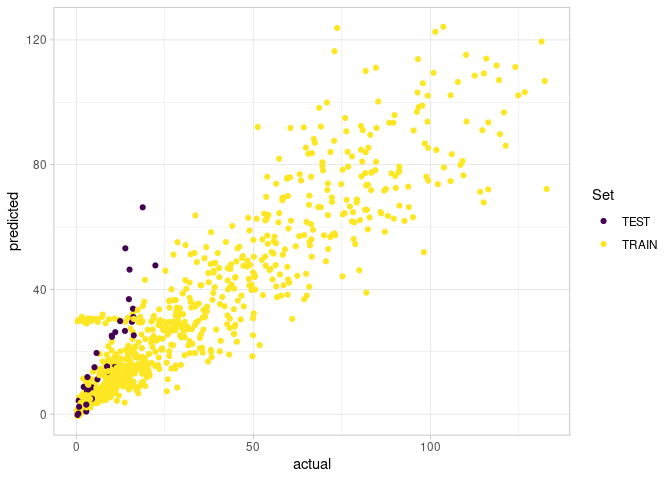
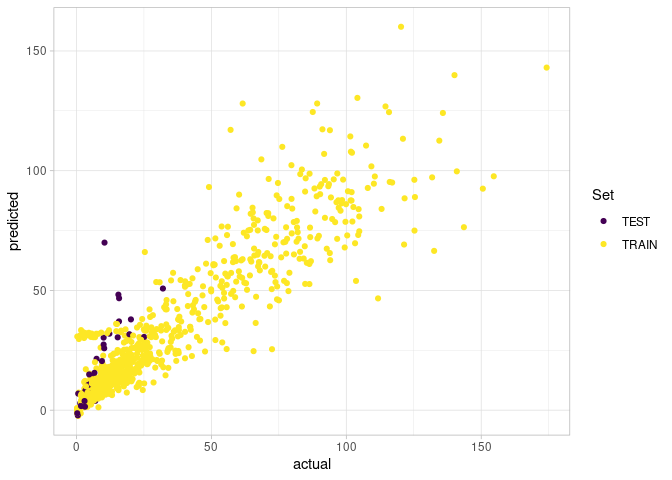
udpate doc

diff --git a/README.md b/README.md
@@ -139,7 +139,7 @@ bounds_voronoi
 #> →  Surface col.  : area
 #> →  Discretized   : 
 #>    ٭ Points — [40 features, 20 variables]
-#>    ٭ Patches — [38 features, 4 variables]
+#>    ٭ Patches — [35 features, 4 variables]
 ```
 
 The other available method is `triangulate_delaunay` for delaunay
@@ -148,7 +148,7 @@ triangulation. Here the `a` argument is used to set the size of the mesh
 
 ``` r
 bounds_delaunay <- bounds %>% 
-  spm_discretize(method = "triangulate_delaunay", a = 5)
+  spm_discretize(method = "triangulate_delaunay", a = 1, q = 30)
 #> ℹ  Discretizing using method triangulate_delaunay
 ```
 
@@ -171,30 +171,30 @@ spm_plot(bounds_delaunay)
 
 ``` r
 spm_patches(bounds_voronoi)
-#> Simple feature collection with 38 features and 3 fields
+#> Simple feature collection with 35 features and 3 fields
 #> Geometry type: GEOMETRY
 #> Dimension:     XY
-#> Bounding box:  xmin: -64.5 ymin: 46.00004 xmax: -46.6269 ymax: 61
+#> Bounding box:  xmin: -64.18658 ymin: 46.00004 xmax: -46.6269 ymax: 60.84471
 #> Geodetic CRS:  WGS 84
-#> # A tibble: 38 x 4
+#> # A tibble: 35 x 4
 #>    sfa   patch_id                                              geometry     area
-#>  * <chr> <fct>                                            <POLYGON [°]>   [km^2]
-#>  1 4     P1       ((-64.42169 60.27125, -64.42 60.27206, -64.41666 60.… 20367.3…
-#>  2 4     P2       ((-59.95566 58.64882, -60.25261 57.73692, -59.67678 …  1718.5…
-#>  3 4     P3       ((-61.89804 57.6918, -61.34602 58.43681, -61.36857 5…  3882.6…
-#>  4 4     P4       ((-60.50931 57.66667, -60.87958 58.41518, -61.34602 …  4684.4…
-#>  5 4     P5       ((-61.34602 58.43681, -60.87958 58.41518, -60.68359 …  2687.3…
-#>  6 4     P6       ((-63 60.62184, -61.66155 59.11637, -60.6936 58.9027… 14504.2…
-#>  7 4     P7       ((-60.26194 59.52858, -60.73068 59.34113, -60.6936 5…  2449.3…
-#>  8 4     P8       ((-59.91649 58.83888, -60.68359 58.8793, -60.87958 5…  6258.8…
-#>  9 4     P9       ((-61.96379 61, -60.73068 59.34113, -60.26194 59.528…  5308.1…
-#> 10 5     P10      ((-59.55703 55.21506, -59.53354 57.66667, -59.56667 … 27939.6…
-#> # … with 28 more rows
+#>  * <chr> <fct>                                           <GEOMETRY [°]>   [km^2]
+#>  1 4     P1       POLYGON ((-61.64897 58.21121, -61.35715 58.43733, -6… 17683.6…
+#>  2 4     P2       POLYGON ((-62.41225 60.84022, -61.35715 58.43733, -6… 11712.2…
+#>  3 4     P3       MULTIPOLYGON (((-60.72194 57.76154, -60.76641 57.922…  2367.4…
+#>  4 4     P4       POLYGON ((-60.26783 58.71877, -60.74766 58.86986, -6…  2471.2…
+#>  5 4     P5       POLYGON ((-59.91358 58.83089, -60.06338 58.74244, -6…  6723.9…
+#>  6 4     P6       POLYGON ((-60.11889 57.69684, -60.08143 57.70026, -6…  4924.0…
+#>  7 4     P7       MULTIPOLYGON (((-60.78516 60.03038, -60.06338 58.742…  1693.0…
+#>  8 5     P8       POLYGON ((-59.46605 55.79975, -58.92503 57.15717, -5… 15614.8…
+#>  9 5     P9       POLYGON ((-55.51969 53.75097, -55.79222 54.17142, -5…  6519.4…
+#> 10 5     P10      POLYGON ((-57.06788 54.76817, -56.79468 55.60955, -5… 23662.2…
+#> # … with 25 more rows
 spm_points(bounds_voronoi)
 #> Simple feature collection with 40 features and 19 fields
 #> Geometry type: POINT
 #> Dimension:     XY
-#> Bounding box:  xmin: -61.77175 ymin: 46.16256 xmax: -48.20016 ymax: 59.70288
+#> Bounding box:  xmin: -61.75483 ymin: 46.46915 xmax: -48.20016 ymax: 59.2464
 #> Geodetic CRS:  WGS 84
 #> # A tibble: 40 x 20
 #> # Groups:   sfa [4]
@@ -202,12 +202,12 @@ spm_points(bounds_voronoi)
 #>  * <dbl>  <dbl> <dbl> <chr>    <chr>           <dbl> <fct>      <dbl>   <dbl>
 #>  1  1995     39    23 2J       Fall           0.0250 1995           5   -51.9
 #>  2  1996     39    37 2G       Fall           0.0250 1996           5   -61.8
-#>  3  2011     39    95 2J       Fall           0.0250 2011           5   -49.1
-#>  4  2011     39    97 2J       Fall           0.0187 2011           5   -53.7
+#>  3  2011     39    94 2H       Fall           0.0250 2011           5   -51.8
+#>  4  2011     39    97 2J       Fall           0.0187 2011           5   -51.2
 #>  5  2011     39    98 3K       Fall           0.0281 2011           5   -61.2
-#>  6  2006     48   101 2G       Summer         0.0187 2006           5   -57.1
+#>  6  2011     39    98 3K       Fall           0.0312 2011           5   -57.2
 #>  7  2009     48   104 2G       Summer         0.0156 2009           5   -61.3
-#>  8  2012     39   107 2H       Fall           0.0187 2012           5   -56.3
+#>  8  2010     48   105 2G       Summer         0.0405 2010           5   -55.9
 #>  9  2012     39   109 3K       Fall           0.0218 2012           5   -50.0
 #> 10  2014     63   109 2G       Summer         0.0281 2014           5   -55.4
 #> # … with 30 more rows, and 11 more variables: lat_dec <dbl>, depth <dbl>,
@@ -236,7 +236,7 @@ biomass_smooth <- biomass_dataset %>%
 biomass_smooth
 #> 
 #> ‒‒ SSPM Dataset: borealis ‒‒
-#> →  Data (MAPPED)     : [1025 observations, 21 variables]
+#> →  Data (MAPPED)     : [969 observations, 21 variables]
 #> →  Data unique ID    : uniqueID
 #> →  Time col.         : year_f
 #> →  Coordinates cols. : lon_dec, lat_dec
@@ -244,7 +244,7 @@ biomass_smooth
 #>       – weight_per_km2 ~ sfa + smooth_time(k = 3) + smooth_space()
 #>       – temp_at_bottom ~ smooth_time(k = 2) + smooth_space()
 #> →  Boundaries        : [4 observations, 3 variables]
-#> →  Smoothed Data     : [912 observations, 8 variables]
+#> →  Smoothed Data     : [840 observations, 8 variables]
 #>    ٭ smoothed vars: temp_at_bottom_smooth — weight_per_km2_smooth
 ```
 
@@ -269,14 +269,14 @@ predator_smooth <- predator_dataset %>%
 predator_smooth
 #> 
 #> ‒‒ SSPM Dataset: all_predators ‒‒
-#> →  Data (MAPPED)     : [1964 observations, 18 variables]
+#> →  Data (MAPPED)     : [1874 observations, 18 variables]
 #> →  Data unique ID    : uniqueID
 #> →  Time col.         : year
 #> →  Coordinates cols. : lon_dec, lat_dec
 #> →  Formulas          : 
 #>       – weight_per_km2 ~ smooth_time(k = 3) + smooth_space()
 #> →  Boundaries        : [4 observations, 3 variables]
-#> →  Smoothed Data     : [912 observations, 7 variables]
+#> →  Smoothed Data     : [840 observations, 7 variables]
 #>    ٭ smoothed vars: weight_per_km2_smooth
 ```
 
@@ -314,7 +314,7 @@ biomass_smooth_w_catch <-
 biomass_smooth_w_catch
 #> 
 #> ‒‒ SSPM Dataset: borealis ‒‒
-#> →  Data (MAPPED)     : [1025 observations, 21 variables]
+#> →  Data (MAPPED)     : [969 observations, 21 variables]
 #> →  Data unique ID    : uniqueID
 #> →  Time col.         : year_f
 #> →  Coordinates cols. : lon_dec, lat_dec
@@ -322,7 +322,7 @@ biomass_smooth_w_catch
 #>       – weight_per_km2 ~ sfa + smooth_time(k = 3) + smooth_space()
 #>       – temp_at_bottom ~ smooth_time(k = 2) + smooth_space()
 #> →  Boundaries        : [4 observations, 3 variables]
-#> →  Smoothed Data     : [912 observations, 12 variables]
+#> →  Smoothed Data     : [840 observations, 12 variables]
 #>    ٭ smoothed vars: temp_at_bottom_smooth — weight_per_km2_smooth
 #>    ٭ vars with catch: weight_per_km2_smooth_borealis_with_catch — weight_per_km2_smooth_borealis_with_catch_change
 ```
@@ -339,7 +339,7 @@ sspm_model <- sspm(biomass = biomass_smooth_w_catch,
 sspm_model
 #> 
 #> ‒‒ SSPM Model (2 datasets) ‒‒
-#> →  Smoothed Data     : [912 observations, 13 variables]
+#> →  Smoothed Data     : [840 observations, 13 variables]
 #>    ٭ smoothed vars: temp_at_bottom_smooth — weight_per_km2_smooth_all_predators — weight_per_km2_smooth_borealis
 #>    ٭ vars with catch: weight_per_km2_smooth_borealis_with_catch — weight_per_km2_smooth_borealis_with_catch_change
 ```
@@ -354,7 +354,7 @@ sspm_model <- sspm_model %>%
 sspm_model
 #> 
 #> ‒‒ SSPM Model (2 datasets) ‒‒
-#> →  Smoothed Data     : [912 observations, 14 variables] / [874 train, 38 test]
+#> →  Smoothed Data     : [840 observations, 14 variables] / [805 train, 35 test]
 #>    ٭ smoothed vars: temp_at_bottom_smooth — weight_per_km2_smooth_all_predators — weight_per_km2_smooth_borealis
 #>    ٭ vars with catch: weight_per_km2_smooth_borealis_with_catch — weight_per_km2_smooth_borealis_with_catch_change
 ```
@@ -371,7 +371,7 @@ sspm_model <- sspm_model %>%
 sspm_model
 #> 
 #> ‒‒ SSPM Model (2 datasets) ‒‒
-#> →  Smoothed Data     : [912 observations, 16 variables] / [874 train, 38 test]
+#> →  Smoothed Data     : [840 observations, 16 variables] / [805 train, 35 test]
 #>    ٭ smoothed vars: temp_at_bottom_smooth — weight_per_km2_smooth_all_predators — weight_per_km2_smooth_borealis
 #>    ٭ vars with catch: weight_per_km2_smooth_borealis_with_catch — weight_per_km2_smooth_borealis_with_catch_change — weight_per_km2_smooth_borealis_with_catch_lag_1
 #>    ٭ lagged vars: weight_per_km2_smooth_all_predators_lag_1 — weight_per_km2_smooth_borealis_with_catch_lag_1
@@ -391,10 +391,10 @@ sspm_model_fit <- sspm_model %>%
 sspm_model_fit
 #> 
 #> ‒‒ SSPM Model Fit ‒‒
-#> →  Smoothed Data     : [912 observations, 16 variables] / [874 train, 38 test]
+#> →  Smoothed Data     : [840 observations, 16 variables] / [805 train, 35 test]
 #> →  Fit summary       : 
 #> 
-#> Family: Scaled t(3,7.169) 
+#> Family: Scaled t(3,7.473) 
 #> Link function: identity 
 #> 
 #> Formula:
@@ -404,26 +404,26 @@ sspm_model_fit
 #> 
 #> Parametric coefficients:
 #>                                                  Estimate Std. Error t value
-#> (Intercept)                                     45.116139  18.197986   2.479
-#> weight_per_km2_smooth_borealis_with_catch_lag_1  0.929307   0.010754  86.416
-#> weight_per_km2_smooth_all_predators_lag_1       -0.009854   0.003804  -2.591
-#> temp_at_bottom_smooth                            0.828527   0.775080   1.069
+#> (Intercept)                                     41.986844  16.836653   2.494
+#> weight_per_km2_smooth_borealis_with_catch_lag_1  0.903955   0.011230  80.498
+#> weight_per_km2_smooth_all_predators_lag_1       -0.009625   0.003500  -2.750
+#> temp_at_bottom_smooth                            2.357069   0.826626   2.851
 #>                                                 Pr(>|t|)    
-#> (Intercept)                                      0.01336 *  
+#> (Intercept)                                      0.01284 *  
 #> weight_per_km2_smooth_borealis_with_catch_lag_1  < 2e-16 ***
-#> weight_per_km2_smooth_all_predators_lag_1        0.00974 ** 
-#> temp_at_bottom_smooth                            0.28539    
+#> weight_per_km2_smooth_all_predators_lag_1        0.00609 ** 
+#> temp_at_bottom_smooth                            0.00446 ** 
 #> ---
 #> Signif. codes:  0 '***' 0.001 '**' 0.01 '*' 0.05 '.' 0.1 ' ' 1
 #> 
 #> Approximate significance of smooth terms:
-#>                            edf Ref.df     F p-value  
-#> s(lag_matrix):by_matrix 0.8385      5 1.027  0.0135 *
+#>                           edf Ref.df     F  p-value    
+#> s(lag_matrix):by_matrix 1.788      5 3.862 1.58e-05 ***
 #> ---
 #> Signif. codes:  0 '***' 0.001 '**' 0.01 '*' 0.05 '.' 0.1 ' ' 1
 #> 
-#> R-sq.(adj) =  0.855   Deviance explained = 70.8%
-#> -REML = 1190.2  Scale est. = 1         n = 874
+#> R-sq.(adj) =  0.842   Deviance explained = 70.8%
+#> -REML =   1097  Scale est. = 1         n = 805
 ```
 
 16. Plotting the object produces a actual vs predicted plot (with
